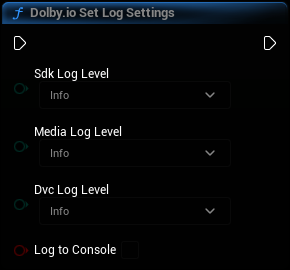
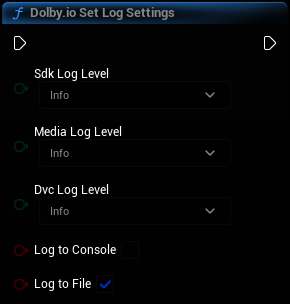
bLogToFile in SetLogSettings

diff --git a/DolbyIO/Source/Public/DolbyIOBlueprints.h b/DolbyIO/Source/Public/DolbyIOBlueprints.h
@@ -1032,8 +1032,7 @@ public:
 		DLB_EXECUTE_SUBSYSTEM_METHOD(SetRemotePlayerLocation, ParticipantID, Location);
 	}
 
-	/** Sets what to log in the Dolby.io C++ SDK. The logs will be saved to the default project log directory
-	 * (likely Saved/Logs).
+	/** Sets what to log in the Dolby.io C++ SDK.
 	 *
 	 * This function should be called before the first call to Set Token if the user needs logs about the plugin's
 	 * operation. Calling this function more than once has no effect.
@@ -1041,14 +1040,19 @@ public:
 	 * @param SdkLogLevel - Log level for SDK logs.
 	 * @param MediaLogLevel - Log level for Media Engine logs.
 	 * @param DvcLogLevel - Log level for DVC logs.
+	 * @param bLogToConsole - Sets whether the logs should be displayed in the Output Log.
+	 * @param bLogToFile - If this is true, the logs will be written to a file in the default project log directory
+	 * (e.g. Saved/Logs on Windows).
 	 */
 	UFUNCTION(BlueprintCallable, Category = "Dolby.io Comms",
 	          Meta = (WorldContext = "WorldContextObject", DisplayName = "Dolby.io Set Log Settings"))
 	static void SetLogSettings(const UObject* WorldContextObject, EDolbyIOLogLevel SdkLogLevel = EDolbyIOLogLevel::Info,
 	                           EDolbyIOLogLevel MediaLogLevel = EDolbyIOLogLevel::Info,
-	                           EDolbyIOLogLevel DvcLogLevel = EDolbyIOLogLevel::Info, bool bLogToConsole = false)
+	                           EDolbyIOLogLevel DvcLogLevel = EDolbyIOLogLevel::Info, bool bLogToConsole = false,
+	                           bool bLogToFile = true)
 	{
-		DLB_EXECUTE_SUBSYSTEM_METHOD(SetLogSettings, SdkLogLevel, MediaLogLevel, DvcLogLevel, bLogToConsole);
+		DLB_EXECUTE_SUBSYSTEM_METHOD(SetLogSettings, SdkLogLevel, MediaLogLevel, DvcLogLevel, bLogToConsole,
+		                             bLogToFile);
 	}
 
 	/** Sets the audio input device.

diff --git a/DolbyIO/Source/Private/Subsystem/DolbyIOInitialization.cpp b/DolbyIO/Source/Private/Subsystem/DolbyIOInitialization.cpp
@@ -70,18 +70,25 @@ namespace
 }
 
 void UDolbyIOSubsystem::SetLogSettings(EDolbyIOLogLevel SdkLogLevel, EDolbyIOLogLevel MediaLogLevel,
-                                       EDolbyIOLogLevel DvcLogLevel, bool bLogToConsole)
+                                       EDolbyIOLogLevel DvcLogLevel, bool bLogToConsole, bool bLogToFile)
 {
-	const FString& LogDir = FPaths::ProjectLogDir();
-	DLB_UE_LOG("Logs will be saved in directory %s", *LogDir);
-
 	sdk::log_settings LogSettings;
 	LogSettings.sdk_log_level = ToSdkLogLevel(SdkLogLevel);
 	LogSettings.media_log_level = ToSdkLogLevel(MediaLogLevel);
 	LogSettings.dvc_log_level = ToSdkLogLevel(DvcLogLevel);
-	LogSettings.log_directory = ToStdString(LogDir);
 	LogSettings.suppress_stdout_logs = true;
-	LogSettings.log_callback = bLogToConsole ? std::make_shared<FSdkLogCallback>() : nullptr;
+
+	if (bLogToConsole)
+	{
+		LogSettings.log_callback = std::make_shared<FSdkLogCallback>();
+	}
+	if (bLogToFile)
+	{
+		const FString& LogDir = FPaths::ProjectLogDir();
+		DLB_UE_LOG("Logs will be saved in directory %s", *LogDir);
+		LogSettings.log_directory = ToStdString(LogDir);
+	}
+
 	try
 	{
 		sdk::set_log_settings(LogSettings);

diff --git a/DolbyIO/Source/Public/DolbyIO.h b/DolbyIO/Source/Public/DolbyIO.h
@@ -226,7 +226,8 @@ public:
 	UFUNCTION(BlueprintCallable, Category = "Dolby.io Comms")
 	void SetLogSettings(EDolbyIOLogLevel SdkLogLevel = EDolbyIOLogLevel::Info,
 	                    EDolbyIOLogLevel MediaLogLevel = EDolbyIOLogLevel::Info,
-	                    EDolbyIOLogLevel DvcLogLevel = EDolbyIOLogLevel::Info, bool bLogToConsole = false);
+	                    EDolbyIOLogLevel DvcLogLevel = EDolbyIOLogLevel::Info, bool bLogToConsole = false,
+	                    bool bLogToFile = true);
 	UPROPERTY(BlueprintAssignable, Category = "Dolby.io Comms")
 	FDolbyIOOnErrorDelegate OnSetLogSettingsError;
 

diff --git a/docs/docs/blueprints/functions.md b/docs/docs/blueprints/functions.md
@@ -484,21 +484,24 @@ Calling this function even once disables the default behavior, which is to autom
 
 :::info 🚀 Beta
 The **Log to Console** parameter is a part of the [Beta program](https://docs.dolby.io/communications-apis/docs/overview-beta-programs).
+
+The **Log to File** parameter is a part of the [Beta program](https://docs.dolby.io/communications-apis/docs/overview-beta-programs). In previous versions, logs were always written to a file.
 :::
 
-Sets what to log in the Dolby.io C++ SDK. The logs will be saved to the default project log directory (likely Saved/Logs).
+Sets what to log in the Dolby.io C++ SDK.
 
 This function should be called before the first call to [Set Token](#dolbyio-set-token) if the user needs logs about the plugin's operation. Calling this function more than once has no effect.
 
 ![](../../static/img/generated/DolbyIOBlueprintFunctionLibrary/img/nd_img_SetLogSettings.png)
 
 #### Inputs and outputs
-| Name                | Direction | Type                                              | Default value | Description                                                               |
-|---------------------|:----------|:--------------------------------------------------|:--------------|:--------------------------------------------------------------------------|
-| **Sdk Log Level**   | Input     | [Dolby.io Log Level](types.mdx#dolbyio-log-level) | Info          | Log level for SDK logs.                                                   |
-| **Media Log Level** | Input     | [Dolby.io Log Level](types.mdx#dolbyio-log-level) | Info          | Log level for Media Engine logs.                                          |
-| **Dvc Log Level**   | Input     | [Dolby.io Log Level](types.mdx#dolbyio-log-level) | Info          | Log level for DVC logs.                                                   |
-| **Log to Console**  | Input     | bool                                              | false         | Sets whether the C++ SDK logs should also be displayed in the Output Log. |
+| Name                | Direction | Type                                              | Default value | Description                                                                                                            |
+|---------------------|:----------|:--------------------------------------------------|:--------------|:-----------------------------------------------------------------------------------------------------------------------|
+| **Sdk Log Level**   | Input     | [Dolby.io Log Level](types.mdx#dolbyio-log-level) | Info          | Log level for SDK logs.                                                                                                |
+| **Media Log Level** | Input     | [Dolby.io Log Level](types.mdx#dolbyio-log-level) | Info          | Log level for Media Engine logs.                                                                                       |
+| **Dvc Log Level**   | Input     | [Dolby.io Log Level](types.mdx#dolbyio-log-level) | Info          | Log level for DVC logs.                                                                                                |
+| **Log to Console**  | Input     | bool                                              | false         | Sets whether the logs should be displayed in the Output Log.                                                           |
+| **Log to File**     | Input     | bool                                              | true          | If this is true, the logs will be written to a file in the default project log directory (e.g. Saved/Logs on Windows). |
 
 ---
 
